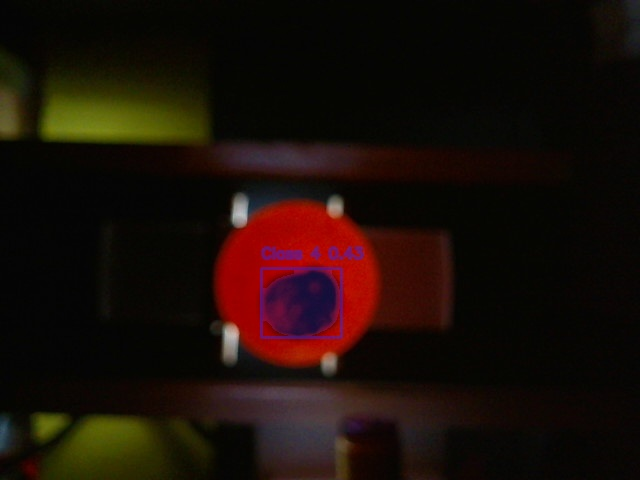
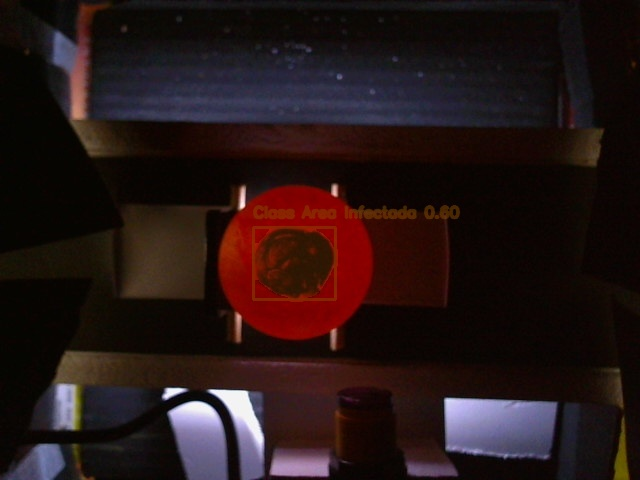
changes

diff --git a/Projeto Integrador/chickcheck/final copy.py b/Projeto Integrador/chickcheck/final copy.py
@@ -28,9 +28,9 @@ class YoloCameraApp:
         self.control_frame = ctk.CTkFrame(self.root)
         self.control_frame.grid(row=0, column=0, sticky="nsew", padx=10, pady=10)
 
-        self.start_button = ctk.CTkButton(self.control_frame, text="Começar", command=self.handle_start, fg_color="green")
-        self.stop_button = ctk.CTkButton(self.control_frame, text="Parar", command=self.handle_stop, fg_color="red")
-        self.reset_button = ctk.CTkButton(self.control_frame, text="Reset", command=self.handle_reset, fg_color="yellow")
+        self.start_button = ctk.CTkButton(self.control_frame, text="Start (Take Photo)", command=self.handle_start)
+        self.stop_button = ctk.CTkButton(self.control_frame, text="Stop", command=self.handle_stop)
+        self.reset_button = ctk.CTkButton(self.control_frame, text="Reset", command=self.handle_reset)
 
         self.start_button.pack(pady=20, fill="x", padx=20)
         self.stop_button.pack(pady=20, fill="x", padx=20)
@@ -75,9 +75,9 @@ class YoloCameraApp:
         self.tk_image = None  # CTkImage
         self.update_frame()
 
-        self.ser = serial.Serial("COM5", 9600)
-        listener_thread = threading.Thread(target=self.listen_serial, daemon=True)
-        listener_thread.start()
+        # self.ser = serial.Serial("COM5", 9600)
+        # listener_thread = threading.Thread(target=self.listen_serial, daemon=True)
+        # listener_thread.start()
 
     def listen_serial(self):        
         while True:
@@ -89,7 +89,7 @@ class YoloCameraApp:
                 if msg == "Ovo chegou, parando motor":
                     if self.last_frame is not None:
                         self.status_text.set("Status: Inferência ocorrendo...")
-                        time.sleep(8)
+                        time.sleep(5)
                         self.last_inference_result = self.run_inference(self.last_frame)
                         self.inference_mode = True
                         self.status_text.set("Status: Inferência concluída")
@@ -97,7 +97,6 @@ class YoloCameraApp:
                     self.status_text.set("Status: Posicione corretamente!")
     
     def load_yolov11_model(self):
-        # model = YOLO("seg50epcvr2.pt")
         model = YOLO("yolo11nseg100.pt")
         model.eval()
         return model
@@ -105,7 +104,8 @@ class YoloCameraApp:
     def update_frame(self):
         screen_w = self.root.winfo_screenwidth()
         screen_h = self.root.winfo_screenheight()
-        display_size = (int(screen_w * 2 / 3), int(screen_h - 100))
+        # display_size = (int(screen_w * 2 / 3), int(screen_h - 100))
+        display_size = (320, 240)
         ret, frame = self.cap.read()
         if ret:
             self.last_frame = frame.copy()
@@ -118,12 +118,12 @@ class YoloCameraApp:
             else:
                 self.tk_image.configure(light_image=img, dark_image=img)
 
-        elif self.running and self.inference_mode:
-            annotated = cv2.resize(self.last_inference_result, display_size)
-            annotated = cv2.cvtColor(annotated, cv2.COLOR_BGR2RGB)
-            img = Image.fromarray(annotated)
+        # elif self.running and self.inference_mode:
+        #     annotated = cv2.resize(self.last_inference_result, display_size)
+        #     annotated = cv2.cvtColor(annotated, cv2.COLOR_BGR2RGB)
+        #     img = Image.fromarray(annotated)
 
-            self.tk_image.configure(light_image=img, dark_image=img)
+        #     self.tk_image.configure(light_image=img, dark_image=img)
 
         # Schedule next update (every 30ms)
         self.root.after(30, self.update_frame)
@@ -136,6 +136,7 @@ class YoloCameraApp:
         image = cv2.imread("captured_image.jpg")
         # Run inference
         results = self.model(image)[0]
+        time.sleep(1)
         parsed_results = get_parsed_results(results)
         if parsed_results == "Nothing detected": 
             img = Image.open("captured_image.jpg")
@@ -143,10 +144,9 @@ class YoloCameraApp:
             self.photo_label.configure(image=img_ctk, text="")
             self.photo_label.image = img_ctk
             print("Consumo")
-            # move_dcmotor_serial(self.ser, "ovo para incubar") 
-            move_dcmotor_serial(self.ser, "ovo para consumo")
+            # move_dcmotor_serial(self.ser, "ovo para consumo")
         else:
-            output_img = draw_masks_segmentation(model=self.model, image=image, results=parsed_results)
+            output_img = draw_masks_segmentation(image, parsed_results)
             cv2.imwrite("segmented_output.jpg", output_img)
             img = Image.open("segmented_output.jpg")
             img_ctk = ctk.CTkImage(light_image=img, dark_image=img, size=(640, 640))
@@ -154,32 +154,33 @@ class YoloCameraApp:
             self.photo_label.image = img_ctk
             ids_from_parsed_results = get_classes_ids_from_parsed_results(parsed_results)
             print(get_classes(self.model.names, results))
-            if 2 or 4 in ids_from_parsed_results:
+            if 0 or 2 or 4 in ids_from_parsed_results:
                 print("Improprio")
-                move_dcmotor_serial(self.ser, "ovo improprio")
+                # move_dcmotor_serial(self.ser, "ovo improprio")
             elif 3 in ids_from_parsed_results:
                 print("Proprio")
-                move_dcmotor_serial(self.ser, "ovo para incubar")
+                # move_dcmotor_serial(self.ser, "ovo para incubar")
             
-        
+                
+    
     def handle_start(self):
-        move_dcmotor_serial(self.ser, "start motor")
+        self.run_inference(self.last_frame)
         self.status_text.set("Começo")
 
     def handle_stop(self):
-        move_dcmotor_serial(self.ser, "stop motor")
+        # move_dcmotor_serial(self.ser, "stop motor")
         self.status_text.set("Status: Stopped")
 
     def handle_reset(self):
-        move_dcmotor_serial(self.ser, "reset motor")
-        self.photo_label = ctk.CTkLabel(self.video_frame, text="No photo yet")
-        self.photo_label.grid(row=2, column=0, sticky="nsew", padx=10, pady=(0, 10))
+        # move_dcmotor_serial(self.ser, "reset motor")
         self.inference_mode = False
+        self.photo_label.configure(image=0, text="")
+        self.photo_label.image = 0
         self.status_text.set("Status: Live Camera")
 
     def exit_app(self):
         self.running = False
-        self.ser.close()
+        # self.ser.close()
         self.cap.release()
         self.root.destroy()
 

diff --git a/Projeto Integrador/chickcheck/yolo_eggs.py b/Projeto Integrador/chickcheck/yolo_eggs.py
@@ -1,0 +1,36 @@
+import cv2
+from ultralytics import YOLO
+from ultralytics.engine.results import Results, Boxes, Annotator
+from img_drawing import draw_masks_segmentation
+from result_dealing import get_parsed_results
+model = YOLO("yolo11nseg100.pt")
+image_path0 = "cvr_egg2/valid/images/IMG_20241027_102109_TIMEBURST5_jpg.rf.c025cde9575089f8836858d35c4b25d9.jpg"
+image_path1 = "IMG_20241020_101338_jpg.rf.dc6f668f5aa3ecde88ba563d69e78659.jpg"
+image_path2 = "cvr_egg2/valid/images/IMG_20241027_095554_TIMEBURST3_jpg.rf.0a1abb35aca811fd6232a8ea5b6a3b62.jpg"
+image_path3 = "cvr_egg2/valid/images/IMG_20241027_104935_TIMEBURST29_jpg.rf.964f9cb046e4624e45c808feaa63a8c7.jpg"
+
+raw_img = cv2.imread(image_path0)
+results = model(raw_img)[0]
+parsed_results = get_parsed_results(results)
+output_image0 = draw_masks_segmentation(model=model, image=raw_img, results=parsed_results)
+
+raw_img = cv2.imread(image_path1)
+results = model(raw_img)[0]
+parsed_results = get_parsed_results(results)
+output_image1 = draw_masks_segmentation(model=model, image=raw_img, results=parsed_results)
+
+raw_img = cv2.imread(image_path2)
+results = model(raw_img)[0]
+parsed_results = get_parsed_results(results)
+output_image2 = draw_masks_segmentation(model=model, image=raw_img, results=parsed_results)
+
+raw_img = cv2.imread(image_path3)
+results = model(raw_img)[0]
+parsed_results = get_parsed_results(results)
+output_image3 = draw_masks_segmentation(model=model, image=raw_img, results=parsed_results)
+
+cv2.imshow('ChickCheck Model Test 1', output_image0)
+cv2.imshow('ChickCheck Model Test 2', output_image1)
+cv2.imshow('ChickCheck Model Test 3', output_image2)
+cv2.imshow('ChickCheck Model Test 4', output_image3)
+cv2.waitKey(0)

diff --git a/Projeto Integrador/chickcheck/img_drawing.py b/Projeto Integrador/chickcheck/img_drawing.py
@@ -4,7 +4,7 @@ import numpy as np
 from ultralytics.engine.results import Annotator
 
 
-def draw_masks_segmentation(image, results, alpha=0.5, draw_boxes=True, draw_labels=True):
+def draw_masks_segmentation(model, image, results, alpha=0.5, draw_boxes=True, draw_labels=True):
     """
     Draws segmentation masks on an image from YOLOv11 segmentation model results.
 
@@ -51,7 +51,7 @@ def draw_masks_segmentation(image, results, alpha=0.5, draw_boxes=True, draw_lab
             cv2.rectangle(overlay, (x1, y1), (x2, y2), color, 2)
 
         if draw_labels and box is not None:
-            label = f'Class {class_id}'
+            label = f'Class {model.names[int(class_id)]}'
             if score is not None:
                 label += f' {score:.2f}'
             x1, y1 = map(int, box[:2])

diff --git a/Projeto Integrador/chickcheck/result_dealing.py b/Projeto Integrador/chickcheck/result_dealing.py
@@ -5,6 +5,9 @@ def get_parsed_results(results):
     if results.masks is None:
         return "Nothing detected"
     for seg, cls_id, conf, box in zip(results.masks.data, results.boxes.cls, results.boxes.conf, results.boxes.xyxy):
+        if int(cls_id) == 0:
+            print("falso positivo")
+            continue
         parsed_results.append({
             "class": int(cls_id),
             "score": float(conf),
